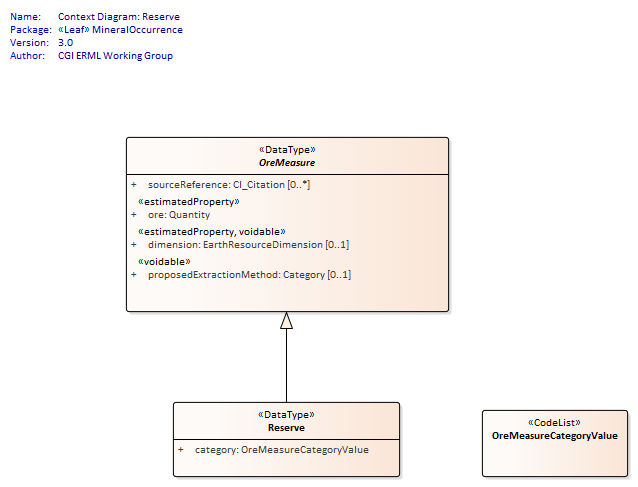
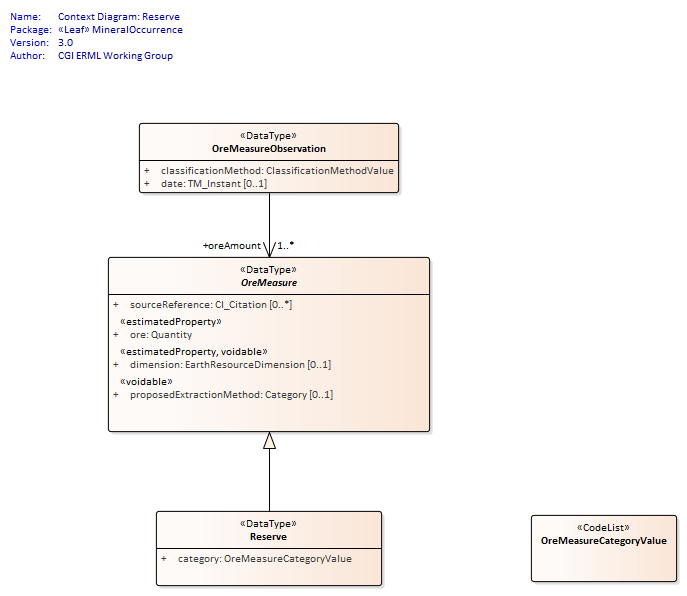
Add OreMeasureObservation to context diagram for Reserve and UNFClassification in documentation

Changed region(s): [[0.1489, 0.1848, 0.7147, 1.0], [0.7445, 0.8316, 1.0, 0.9856], [0.0, 0.0, 0.2978, 0.1232]]

diff --git a/doc/ERML_3_Doc/EARoot/EA2/EA92.htm b/doc/ERML_3_Doc/EARoot/EA2/EA92.htm
@@ -643,17 +643,16 @@ function nameClassifier(name, separator)
 				</tr>
 				<tr>
 					<td width="40%" class="TableRow" valign="top">
-						<a href="EA105.htm">«DataType» SupergeneProcesses</a><br />
+						<a href="EA92.htm">«FeatureType» EarthResource</a><br />
 						Class &nbsp;
 					</td>
 					<td width="30%" class="TableRow" valign="top">
-						<strong>Name:</strong> &nbsp;<br />
+						<strong>Name:</strong> child<br />
 						&nbsp;
 					</td>
 					<td width="30%" class="TableRow" valign="top">
-						<strong>Name:</strong> supergeneModification<br />
-						-- Definition --
-A supergene process which would allow a metal enrichment produced by the chemical remobilisation of metals in an oxidised or transitional environment.	
+						<strong>Name:</strong> parent<br />
+						&nbsp;	
 					</td>
 				</tr>
 				<tr>
@@ -667,16 +666,17 @@ A supergene process which would allow a metal enrichment produced by the chemica
 				</tr>
 				<tr>
 					<td width="40%" class="TableRow" valign="top">
-						<a href="EA92.htm">«FeatureType» EarthResource</a><br />
+						<a href="EA105.htm">«DataType» SupergeneProcesses</a><br />
 						Class &nbsp;
 					</td>
 					<td width="30%" class="TableRow" valign="top">
-						<strong>Name:</strong> child<br />
+						<strong>Name:</strong> &nbsp;<br />
 						&nbsp;
 					</td>
 					<td width="30%" class="TableRow" valign="top">
-						<strong>Name:</strong> parent<br />
-						&nbsp;	
+						<strong>Name:</strong> supergeneModification<br />
+						-- Definition --
+A supergene process which would allow a metal enrichment produced by the chemical remobilisation of metals in an oxidised or transitional environment.	
 					</td>
 				</tr>
 				<tr>

diff --git a/doc/ERML_3_Doc/EARoot/EA2/EA85.htm b/doc/ERML_3_Doc/EARoot/EA2/EA85.htm
@@ -36,9 +36,10 @@ function nameClassifier(name, separator)
 <img src="EA86.png" usemap="#EA86" border="0" />
 
 <MAP NAME="EA86">
-<area shape="rect" coords="404,415,542,486" href="EA120.htm" target="_self">
-<area shape="rect" coords="83,157,406,332" href="EA100.htm" target="_self">
-<area shape="rect" coords="179,414,310,484" href="EA107.htm" target="_self">
+<area shape="rect" coords="98,161,358,231" href="EA101.htm" target="_self">
+<area shape="rect" coords="394,583,532,654" href="EA120.htm" target="_self">
+<area shape="rect" coords="67,301,389,476" href="EA100.htm" target="_self">
+<area shape="rect" coords="163,583,293,653" href="EA107.htm" target="_self">
 </MAP>
 
 	<div class="ObjectTitle">Context Diagram: UNFCClassification : Class diagram</div>
@@ -49,7 +50,7 @@ function nameClassifier(name, separator)
 		</tr>
 		<tr>
 			<td width="15%" class="ObjectDetailsTopic">Modified:</td>
-			<td width="85%" class="ObjectDetailsValue">29/06/2018 2:11:56 PM</td>
+			<td width="85%" class="ObjectDetailsValue">29/06/2018 2:54:06 PM</td>
 		</tr>
 		<tr style="padding-top: 10px;">
 			<td width="15%" class="ObjectDetailsTopic"><img src="../../images/plus03.gif" align="absmiddle" id="proj" onclick="parent.toggleData(this.id)" />Project:</td>

diff --git a/doc/ERML_3_Doc/EARoot/EA2/EA77.htm b/doc/ERML_3_Doc/EARoot/EA2/EA77.htm
@@ -36,9 +36,10 @@ function nameClassifier(name, separator)
 <img src="EA78.png" usemap="#EA78" border="0" />
 
 <MAP NAME="EA78">
-<area shape="rect" coords="482,410,628,477" href="EA119.htm" target="_self">
-<area shape="rect" coords="126,137,449,312" href="EA100.htm" target="_self">
-<area shape="rect" coords="173,402,400,477" href="EA103.htm" target="_self">
+<area shape="rect" coords="139,123,399,193" href="EA101.htm" target="_self">
+<area shape="rect" coords="531,515,677,582" href="EA119.htm" target="_self">
+<area shape="rect" coords="108,257,430,432" href="EA100.htm" target="_self">
+<area shape="rect" coords="156,511,382,586" href="EA103.htm" target="_self">
 </MAP>
 
 	<div class="ObjectTitle">Context Diagram: Reserve : Class diagram</div>
@@ -49,7 +50,7 @@ function nameClassifier(name, separator)
 		</tr>
 		<tr>
 			<td width="15%" class="ObjectDetailsTopic">Modified:</td>
-			<td width="85%" class="ObjectDetailsValue">29/06/2018 2:11:29 PM</td>
+			<td width="85%" class="ObjectDetailsValue">29/06/2018 2:53:22 PM</td>
 		</tr>
 		<tr style="padding-top: 10px;">
 			<td width="15%" class="ObjectDetailsTopic"><img src="../../images/plus03.gif" align="absmiddle" id="proj" onclick="parent.toggleData(this.id)" />Project:</td>

diff --git a/doc/ERML_3_Doc/EARoot/EA2/EA79.htm b/doc/ERML_3_Doc/EARoot/EA2/EA79.htm
@@ -37,9 +37,9 @@ function nameClassifier(name, separator)
 
 <MAP NAME="EA80">
 <area shape="rect" coords="503,476,722,554" href="EA119.htm" target="_self">
-<area shape="rect" coords="166,73,426,143" href="EA101.htm" target="_self">
-<area shape="rect" coords="155,225,478,400" href="EA100.htm" target="_self">
-<area shape="rect" coords="212,466,439,571" href="EA104.htm" target="_self">
+<area shape="rect" coords="180,73,440,143" href="EA101.htm" target="_self">
+<area shape="rect" coords="149,225,471,400" href="EA100.htm" target="_self">
+<area shape="rect" coords="197,463,423,568" href="EA104.htm" target="_self">
 </MAP>
 
 	<div class="ObjectTitle">Context Diagram: Resource : Class diagram</div>
@@ -50,7 +50,7 @@ function nameClassifier(name, separator)
 		</tr>
 		<tr>
 			<td width="15%" class="ObjectDetailsTopic">Modified:</td>
-			<td width="85%" class="ObjectDetailsValue">29/06/2018 2:11:36 PM</td>
+			<td width="85%" class="ObjectDetailsValue">29/06/2018 2:53:10 PM</td>
 		</tr>
 		<tr style="padding-top: 10px;">
 			<td width="15%" class="ObjectDetailsTopic"><img src="../../images/plus03.gif" align="absmiddle" id="proj" onclick="parent.toggleData(this.id)" />Project:</td>

diff --git a/doc/ERML_3_Doc/EARoot/EA2/EA101.htm b/doc/ERML_3_Doc/EARoot/EA2/EA101.htm
@@ -91,7 +91,7 @@ function nameClassifier(name, separator)
 		</tr>
 		<tr id="adv01" style="display: none;">
 			<td class="ObjectDetailsTopic" style="padding-left: 18px;">Appears In:</td>
-			<td class="ObjectDetailsValue"><a href="EA87.htm">Summary Diagram: MineralOccurrence</a>, <a href="EA61.htm">Context Diagram: EarthResource</a>, <a href="EA75.htm">Context Diagram: OreMeasure</a>, <a href="EA79.htm">Context Diagram: Resource</a>, <a href="EA83.htm">Context Diagram: TotalProduction</a></td>
+			<td class="ObjectDetailsValue"><a href="EA87.htm">Summary Diagram: MineralOccurrence</a>, <a href="EA61.htm">Context Diagram: EarthResource</a>, <a href="EA75.htm">Context Diagram: OreMeasure</a>, <a href="EA77.htm">Context Diagram: Reserve</a>, <a href="EA79.htm">Context Diagram: Resource</a>, <a href="EA85.htm">Context Diagram: UNFCClassification</a>, <a href="EA83.htm">Context Diagram: TotalProduction</a></td>
 		</tr>
 	</table>
 	

diff --git a/doc/ERML_3_Doc/index.htm b/doc/ERML_3_Doc/index.htm
@@ -6,7 +6,7 @@
 <link href="css/ea.css" rel="stylesheet" type="text/css" />
 <script language="JavaScript" src="js/displayToc.js" type="text/javascript"></script>
 </head>
-<body onload="initLoad(this,'toc.htm','./EARoot/EA2/EA87.htm')" onresize="resizePage()">
+<body onload="initLoad(this,'toc.htm','./EARoot/EA2/EA79.htm')" onresize="resizePage()">
 <div class="IndexTitle">
 	EarthResource
 </div>

diff --git a/doc/ERML_3_Doc/EARoot/EA3.htm b/doc/ERML_3_Doc/EARoot/EA3.htm
@@ -42,7 +42,7 @@ function nameClassifier(name, separator)
 		</tr>
 		<tr>
 			<td class="ObjectDetailsTopic">Modified:</td>
-			<td class="ObjectDetailsValue">21/09/2012 12:00:00 AM</td>
+			<td class="ObjectDetailsValue">29/06/2018 2:43:14 PM</td>
 		</tr>
 		<tr style="height: 10px"><td colspan="2"></td></tr>
 		<tr>
